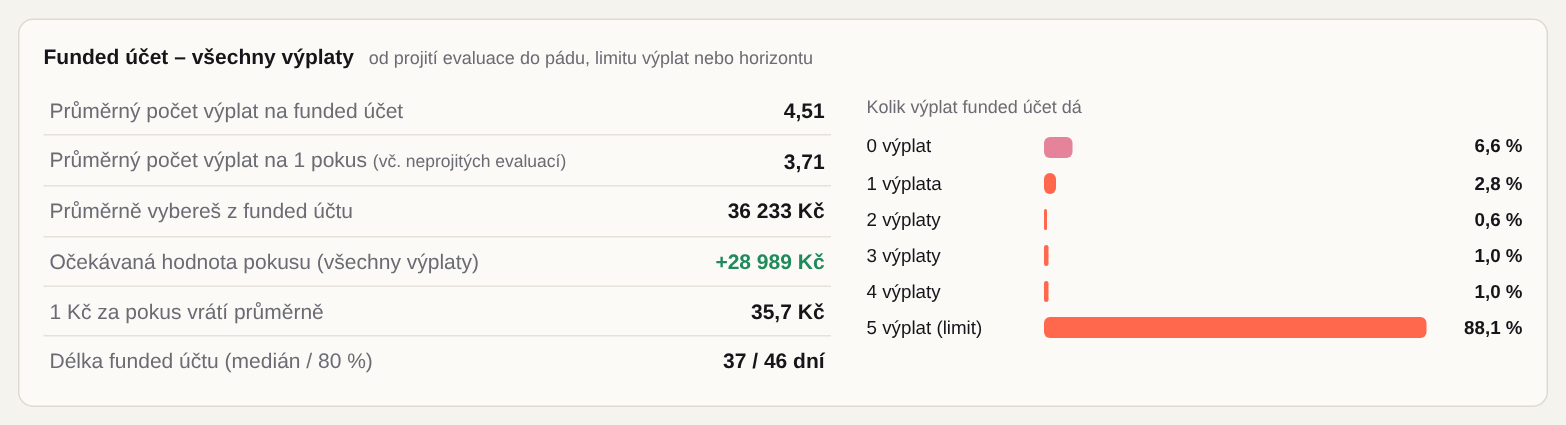
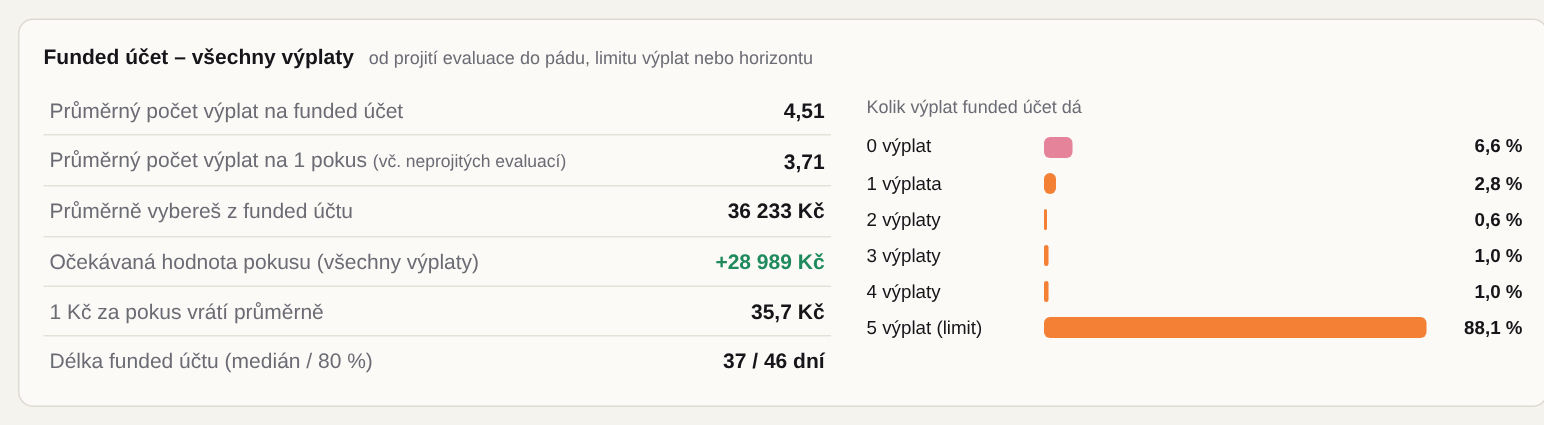
Akcent víc do oranžova, varování jantarové

diff --git a/index.html b/index.html
@@ -16,13 +16,13 @@
     --border: #dedad1;
     --text: #16161a;
     --muted: #6b6b74;
-    --accent: #ff4d2e;
-    --accent-soft: rgba(255, 77, 46, .12);
+    --accent: #f26a14;
+    --accent-soft: rgba(242, 106, 20, .13);
     --good: #1f8a5b;
     --bad: #d6335c;
-    --warn-bg: #fff0e6;
-    --warn-border: #f5b294;
-    --warn-text: #7a2e14;
+    --warn-bg: #fff4e3;
+    --warn-border: #f3c27c;
+    --warn-text: #6e420c;
     --grid: #e6e2d9;
     --radius: 10px;
   }
@@ -34,13 +34,13 @@
       --border: #2a2a30;
       --text: #f5f3ee;
       --muted: #8a8a93;
-      --accent: #ff4d2e;
-      --accent-soft: rgba(255, 77, 46, .16);
+      --accent: #ff7a2a;
+      --accent-soft: rgba(255, 122, 42, .16);
       --good: #3fbf86;
       --bad: #f0607f;
-      --warn-bg: #24150f;
-      --warn-border: #5c2c1c;
-      --warn-text: #ffb59e;
+      --warn-bg: #251a0c;
+      --warn-border: #5e4219;
+      --warn-text: #ffcf8a;
       --grid: #222227;
     }
   }
@@ -51,13 +51,13 @@
     --border: #2a2a30;
     --text: #f5f3ee;
     --muted: #8a8a93;
-    --accent: #ff4d2e;
-    --accent-soft: rgba(255, 77, 46, .16);
+    --accent: #ff7a2a;
+    --accent-soft: rgba(255, 122, 42, .16);
     --good: #3fbf86;
     --bad: #f0607f;
-    --warn-bg: #24150f;
-    --warn-border: #5c2c1c;
-    --warn-text: #ffb59e;
+    --warn-bg: #251a0c;
+    --warn-border: #5e4219;
+    --warn-text: #ffcf8a;
     --grid: #222227;
   }
   :root[data-theme="light"] { color-scheme: light; }
